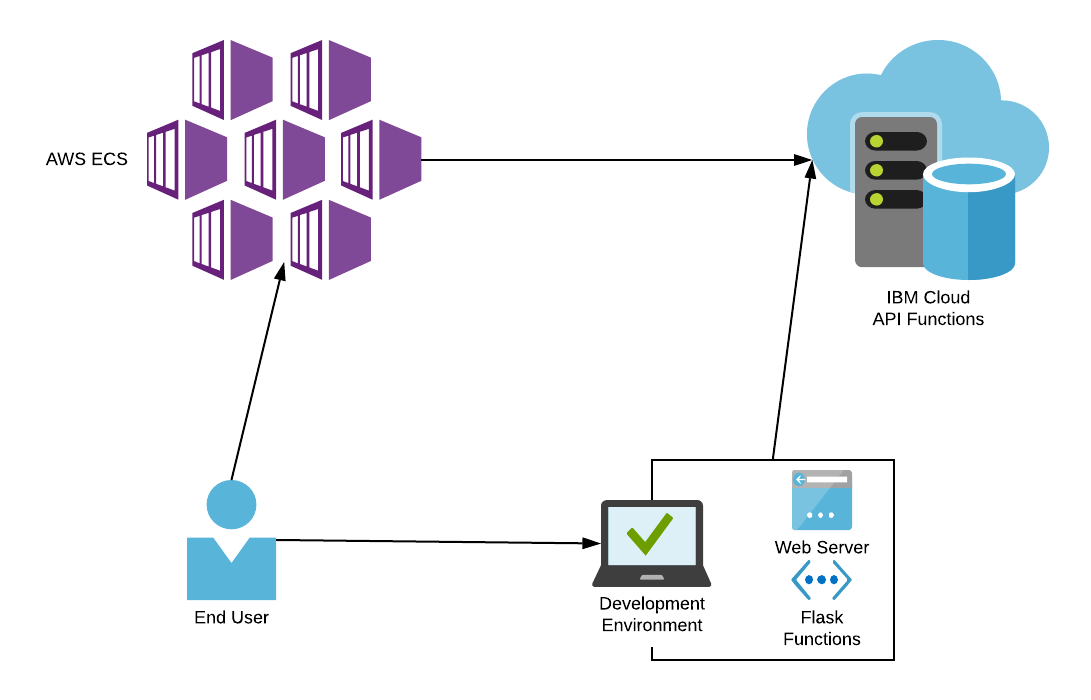
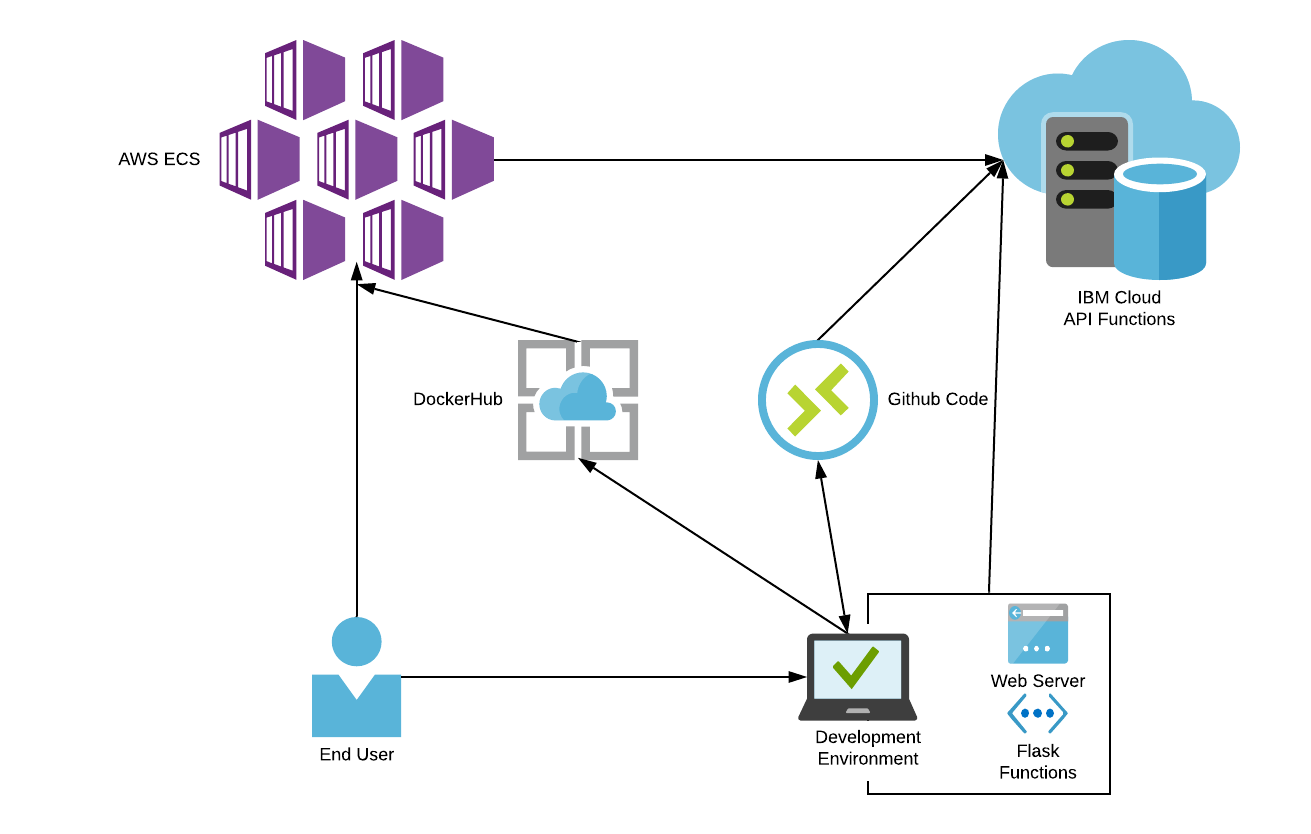
Added API info

diff --git a/README.md b/README.md
@@ -12,6 +12,9 @@ This application has three components: the web front, development environment, a
 ![Architecture Drawing](MSCS621-Project.png)
 
 The logical flow of the application consists of user interaction with either the web front or the development environment. Then, either the web front or the developement environment, interacts with the API to display the correct information for the user.
+<br><br>
+**Dependencies**
+This applications has two main parts, the web front, and the backend APIs. The web front is built on Python using Flask. Flask renders HTML files based on Jinja2 templates. These web files are then served to the end user. The API backend is served via IBM's serverless functions. NodeJS functions are ran when information is requested.
 
 ## Deployment
 The following are required to run the application:<br>
@@ -35,5 +38,24 @@ _For Flask and requests:_<br>
 Edit the URL in the `app/data.py` file to the correct URL for your function.
 <br><br>
 
-## Development process
+## API Information
+The API can be called upon with basic curl commands. The API has get and post functions.
+<br><br>
+**Example**<br>
+GET:
+```
+curl --request GET \
+  --url APIURL \
+  --header 'accept: application/json'
+```
+POST:
+```
+curl --request POST \
+  --url APIURL \
+  --header 'accept: application/json' \
+  --header 'content-type: application/json' \
+  --data '{"name":"testing","slug":"QFX-5200","recommendedVersion":"junos 18.1R3-S6"}'
+```
+
+## Acknowledgments
 This project was developed with help from Marist College iLearn resources, Youtube, and IBM resources.
